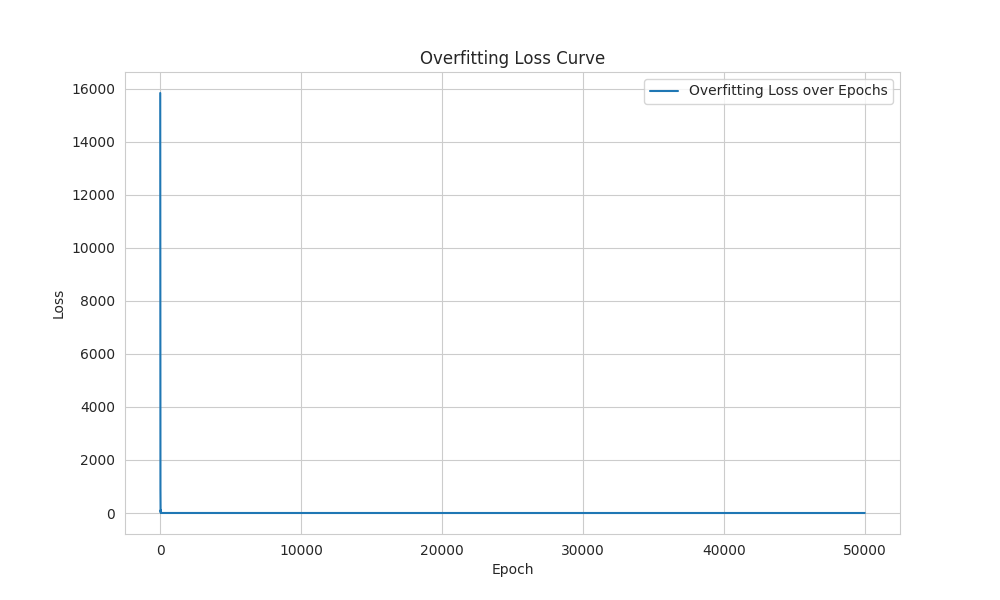
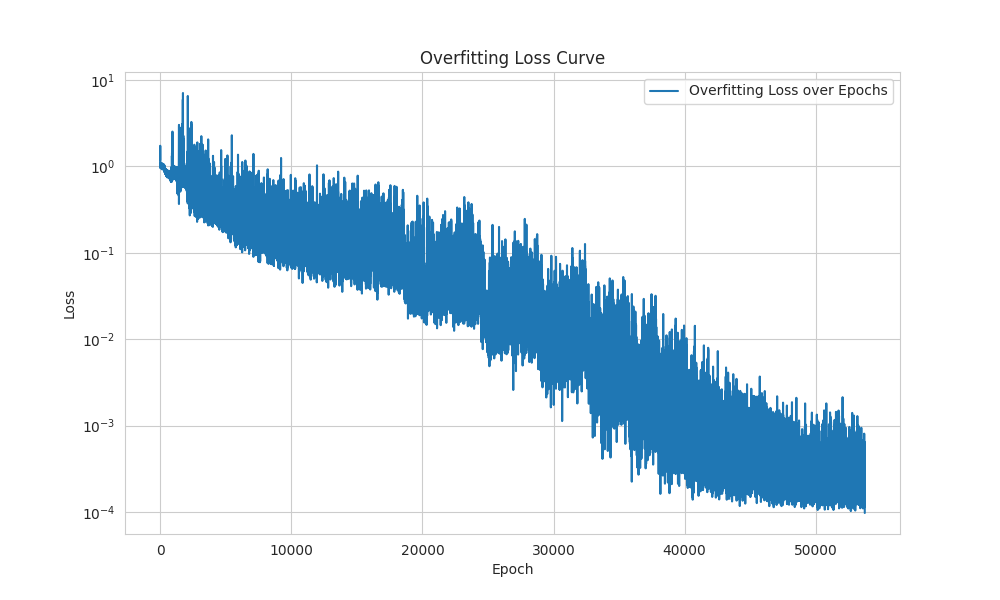
Overfit on a Single Sample Update

diff --git a/experiments/pipeline_small.py b/experiments/pipeline_small.py
@@ -39,6 +39,26 @@ def generate_burst_params(ncomp):
 
 ybkg = 1.0  # Background flux
 
+# Improved model architecture
+class ImprovedFMPE(FMPE):
+    def __init__(self, *args, **kwargs):
+        super().__init__(*args, **kwargs)
+        self.net = nn.Sequential(
+            nn.Linear(self.net[0].in_features, 512),
+            nn.LayerNorm(512),
+            nn.ELU(),
+            nn.Linear(512, 512),
+            nn.LayerNorm(512),
+            nn.ELU(),
+            nn.Linear(512, 512),
+            nn.LayerNorm(512),
+            nn.ELU(),
+            nn.Linear(512, 512),
+            nn.LayerNorm(512),
+            nn.ELU(),
+            nn.Linear(512, self.net[-1].out_features)
+        )
+
 class CategoricalModel(nn.Module):
     def __init__(self, x_dim, max_components):
         super(CategoricalModel, self).__init__()
@@ -59,11 +79,12 @@ def categorical_loss(probs, targets):
     targets = targets.long()  # Ensure targets are long type for indexing
     return -torch.log(probs[torch.arange(probs.size(0)), targets]).mean()
 
-# Initialize models, loss functions, and optimizers
-estimator = FMPE(theta_dim=1 * max_ncomp, x_dim=1000, freqs=5).to(device)
-loss = FMPELoss(estimator)
-optimizer = optim.Adam(estimator.parameters(), lr=1e-4)
-step = GDStep(optimizer, clip=1.0)
+# Experiment setup
+device = torch.device("cuda" if torch.cuda.is_available() else "cpu")
+estimator = ImprovedFMPE(theta_dim=1 * max_ncomp, x_dim=1000, freqs=20).to(device)
+loss_fn = FMPELoss(estimator)
+optimizer = optim.AdamW(estimator.parameters(), lr=1e-4, weight_decay=1e-5)
+scheduler = optim.lr_scheduler.ReduceLROnPlateau(optimizer, patience=2000, factor=0.5, verbose=True)
 
 num_estimator = CategoricalModel(x_dim=1000, max_components=max_ncomp).to(device)
 num_optimizer = optim.Adam(num_estimator.parameters(), lr=1e-4)
@@ -75,6 +96,9 @@ burstparams = generate_burst_params(ncomp)
 ymodel, ycounts = simulate_burst(time, ncomp, burstparams, ybkg*10, return_model=True, noise_type='gaussian')
 fixed_t0 = torch.from_numpy(burstparams[:ncomp]).float().to(device)  # Only t0
 fixed_x = torch.from_numpy(ycounts).float().to(device)
+
+# Normalize the input data
+fixed_x = (fixed_x - fixed_x.mean()) / fixed_x.std()
 
 # Transform the time series data using Fourier Transform for better representation
 import torch.fft as fft
@@ -91,23 +115,24 @@ batch_size = 1024
 fixed_t0_batch = fixed_t0.repeat(batch_size, 1)
 fixed_x_fft_batch = fixed_x_fft.repeat(batch_size, 1)
 
-# Increase the number of epochs for more extensive training
-num_epochs = 50000
-
+# Training loop
+num_epochs = 100000
 for epoch in range(num_epochs):
-    optimizer.zero_grad()  # Clear gradients for the estimator
-    
-    loss_value = loss(fixed_t0_batch, fixed_x_fft_batch)
-    
-    # Backpropagate the loss
-    loss_value.backward()
-    
-    # Step the optimizer
+    optimizer.zero_grad()
+    loss = loss_fn(fixed_t0_batch, fixed_x_fft_batch)
+    loss.backward()
+    torch.nn.utils.clip_grad_norm_(estimator.parameters(), max_norm=1.0)
     optimizer.step()
-    
-    overfit_loss_values.append(loss_value.item())
+    scheduler.step(loss)
+
+    overfit_loss_values.append(loss.item())
     if epoch % 1000 == 0:
-        print(f"Overfitting Epoch {epoch+1}, Loss: {loss_value.item()}")
+        print(f"Epoch {epoch}, Loss: {loss.item()}, LR: {scheduler.get_last_lr()[0]}")
+
+    # Early stopping condition
+    if loss.item() < 1e-4:
+        print(f"Reached desired loss at epoch {epoch}")
+        break
 
 training_time = time_module.time() - start_time
 print(f"Training completed in {training_time:.2f} seconds.")
@@ -117,28 +142,46 @@ estimator.eval()
 
 with torch.no_grad():
     # Sampling a large number of t0s for each example in the batch to assess overfitting
-    num_samples = 1000
-    samples_t0_given_x_N = estimator.flow(fixed_x_fft_batch).sample((num_samples,))
+    num_samples = 50000
+    sample_batch_size = 1000  # Process samples in smaller batches
+    all_samples = []
+    
+    for i in range(0, num_samples, sample_batch_size):
+        batch_samples = estimator.flow(fixed_x_fft_batch[:1]).sample((sample_batch_size,))
+        all_samples.append(batch_samples)
+    
+    samples_t0_given_x_N = torch.cat(all_samples, dim=0)
     
     # Calculating the mean and standard deviation of sampled t0s across the samples dimension
     mean_sample = samples_t0_given_x_N.mean(dim=0)
     std_sample = samples_t0_given_x_N.std(dim=0)
     
-    # Calculating the batch mean and standard deviation of sampled t0s across the batch dimension
-    batch_mean_sample = samples_t0_given_x_N.mean(dim=[0, 1])
-    batch_std_sample = samples_t0_given_x_N.std(dim=[0, 1])
-    
     print("Fixed Input t0:", fixed_t0_batch[0])
     print("Mean of sampled t0s from posterior after overfitting:", mean_sample)
     print("Standard deviation of sampled t0s from posterior after overfitting:", std_sample)
-    print("Batch mean of sampled t0s from posterior after overfitting:", batch_mean_sample)
-    print("Batch standard deviation of sampled t0s from posterior after overfitting:", batch_std_sample)
 
     # Plotting the samples using corner
-    figure = corner.corner(samples_t0_given_x_N.view(-1, samples_t0_given_x_N.size(-1)).cpu().numpy(), 
-                           labels=[f"t0_{i}" for i in range(samples_t0_given_x_N.size(-1))],
-                           truths=fixed_t0_batch[0].cpu().numpy(), title="Posterior Samples vs Fixed Input t0")
-    figure.savefig('plots_small/posterior_samples_fixed_t0_corner_fft_overfit.png')
+    figure = corner.corner(
+        samples_t0_given_x_N.cpu().numpy(), 
+        labels=[f"t0_{i}" for i in range(samples_t0_given_x_N.size(-1))],
+        truths=fixed_t0_batch[0].cpu().numpy(),
+        title="Posterior Samples vs Fixed Input t0",
+        levels=(0.68, 0.95, 0.997),
+        color='blue',
+        truth_color='red',
+        show_titles=True,
+        title_fmt='.4f',
+        quantiles=[0.16, 0.5, 0.84],
+        smooth=1.0,
+        range=[(t0 - 0.01, t0 + 0.01) for t0 in fixed_t0_batch[0].cpu().numpy()],  # Set range to ±0.01 around true values
+        hist_kwargs={'density': True}
+    )
+
+    # Adjust the layout to prevent cutting off axis labels
+    plt.tight_layout()
+
+    # Save the figure with a higher DPI for better quality
+    figure.savefig('plots_small/posterior_samples_fixed_t0_corner_fft_overfit.png', dpi=300, bbox_inches='tight')
     plt.close(figure)
 
     # Plotting the overfitting loss curve
@@ -148,6 +191,7 @@ with torch.no_grad():
     plt.ylabel('Loss')
     plt.title('Overfitting Loss Curve')
     plt.legend()
+    plt.yscale('log')
     plt.savefig('plots_small/loss_curve_fft_overfit.png')
     plt.close()
 
@@ -161,4 +205,14 @@ with torch.no_grad():
     plt.savefig('plots_small/conditioning_data_time_series.png')
     plt.close()
 
-
+    # Examine the trajectory of samples
+    trajectory = estimator.flow(fixed_x_fft_batch[0]).sample((1000,))
+    plt.figure(figsize=(10, 6))
+    for i in range(trajectory.shape[1]):
+        plt.plot(trajectory[:, i].cpu().numpy(), label=f't0_{i}')
+    plt.xlabel('Sample')
+    plt.ylabel('t0 value')
+    plt.title('Trajectory of Sampled t0s')
+    plt.legend()
+    plt.savefig('plots_small/trajectory_samples.png')
+    plt.close()
